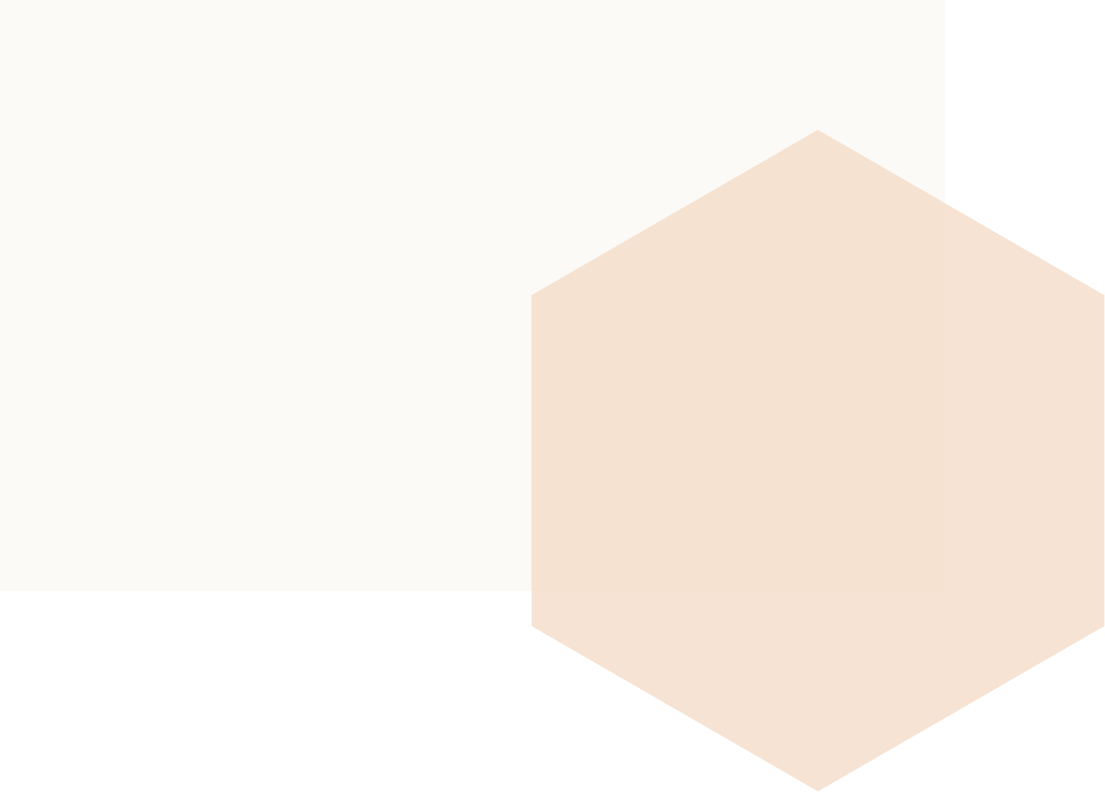
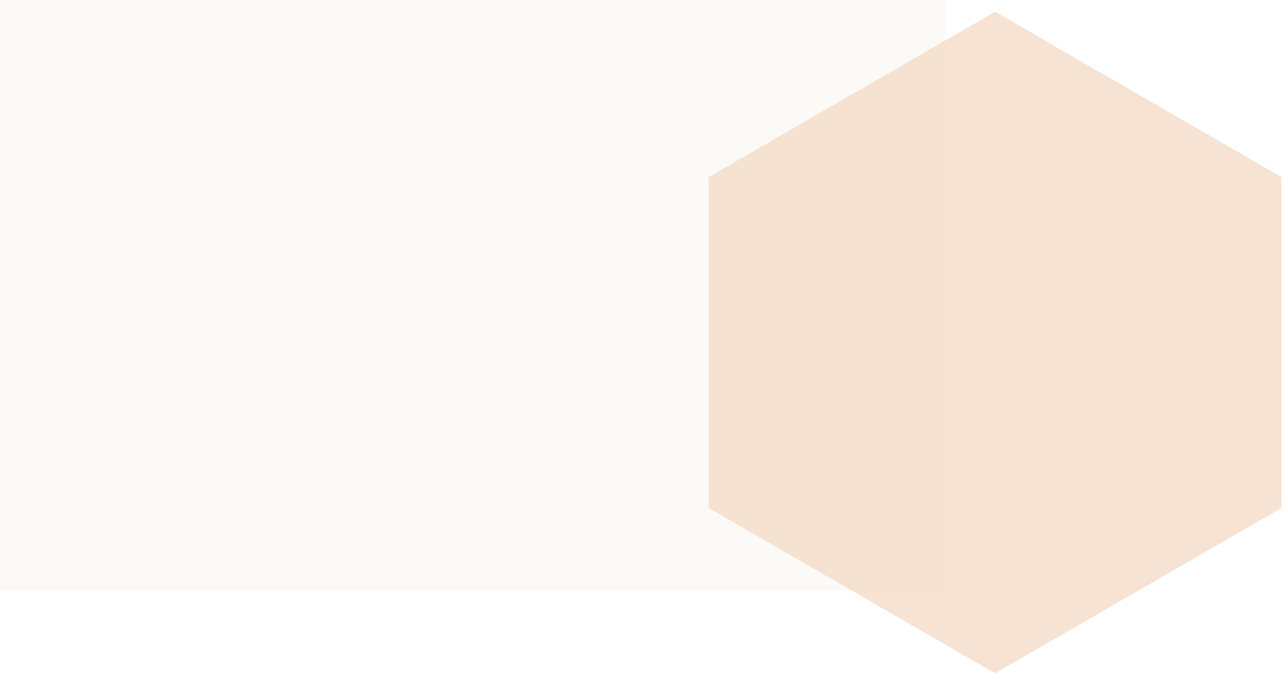
Move hexagon up-right

diff --git a/01-demo/gen_bg.tex b/01-demo/gen_bg.tex
@@ -11,7 +11,7 @@
 
 % One large regular hexagon, flat-top orientation
 \fill[ra-fill, opacity=0.8]
-  (4.5,2.5) -- ++(30:2.8) -- ++(330:2.8) -- ++(270:2.8)
+  (6.0,3.5) -- ++(30:2.8) -- ++(330:2.8) -- ++(270:2.8)
             -- ++(210:2.8) -- ++(150:2.8) -- cycle;
 
 \end{tikzpicture}
